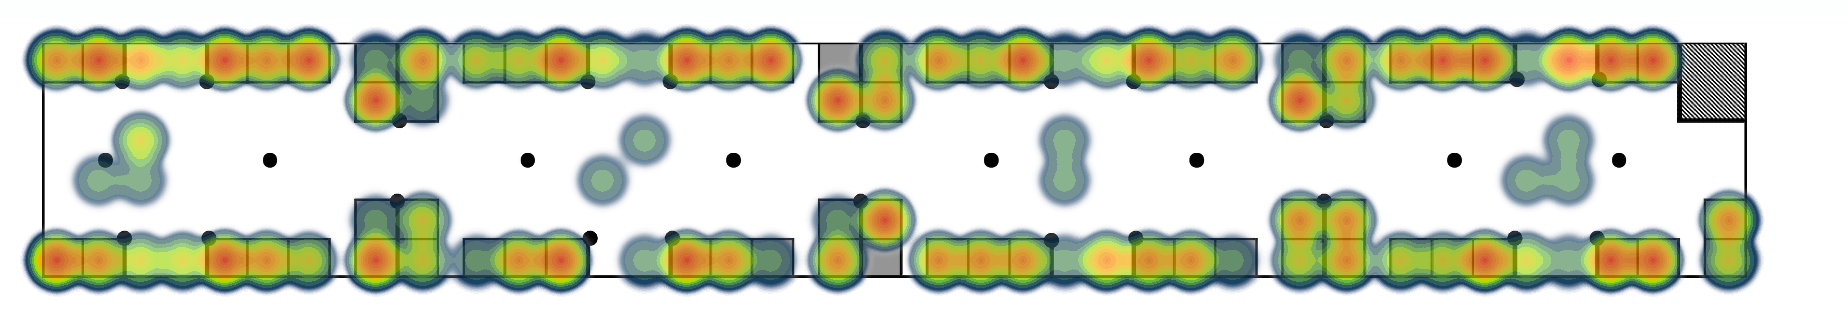
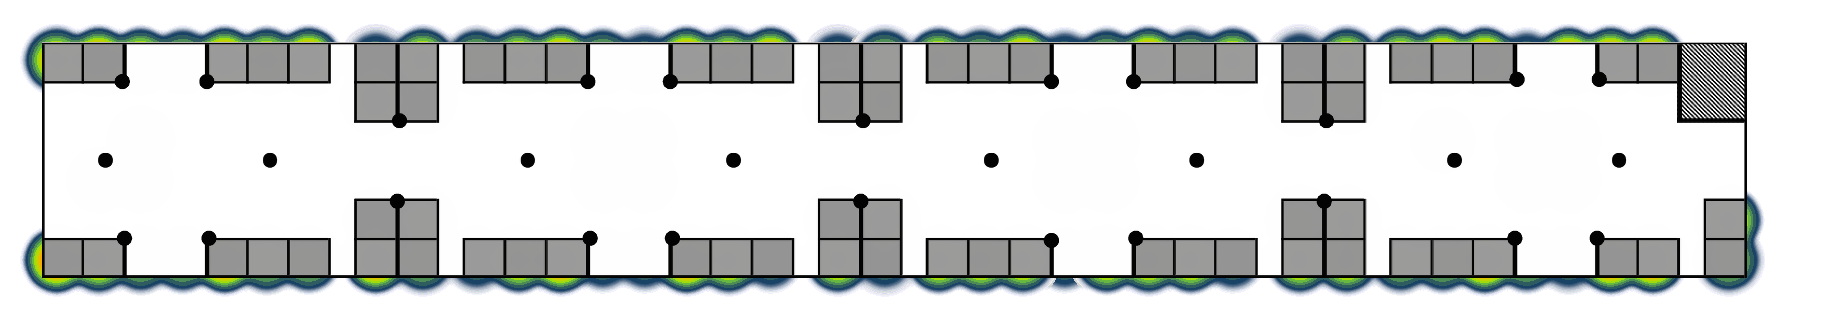
Add transverse edge seating metric

diff --git a/sim.rb b/sim.rb
@@ -174,7 +174,13 @@ def class_to_car(car_class)
 end
 
 # A fully comprehensive pure strategy
-# 6,8,14,1,5,4: [0.0151] *
+# 6,8,14,1,5,4,1: [0.0790]
+# 6,8,14,1,5,4,20: [0.0580]
+# 6,8,14,1,5,4,10: [0.0579]
+# 6,8,14,1,5,4,6: [0.0574]
+# 6,8,14,1,5,4,3: [0.0355]
+# 6,8,14,1,5,4,2: [0.0190] *
+# 6,8,14,1,5,4,1: [0.0673] *
 def choose_near_seat_alone(door, plan, passengers)
   max_dist = 14.0
   car_dist = manhattan_distance('01a', plan.last.last)
@@ -192,6 +198,7 @@ def choose_near_seat_alone(door, plan, passengers)
       w_no_pole = 1
       w_door = 5
       w_seat_pole = 4
+      w_trans_edge = 2
 
       person_dist = Math.log(occupied.map{|occ| manhattan_distance(space, occ)}.min) / Math.log(car_dist)
       sit_preference = space.seat? ? 1 : 0
@@ -202,13 +209,15 @@ def choose_near_seat_alone(door, plan, passengers)
       no_pole = 1 - is_space_type.call(:floor)
       stand_door = is_space_type.call(:floor_door)
       seat_pole = is_space_type.call(:seat_pole)
+      trans_edge = is_space_type.call(:seat_trans_edge)
 
       w_person * person_dist +
       w_seat * sit_preference +
       w_dist * walk_distance +
       w_no_pole * no_pole +
       w_door * stand_door +
-      w_seat_pole * seat_pole
+      w_seat_pole * seat_pole +
+      w_trans_edge * trans_edge
     end
 
   space_weights = Hash[*unoccupied.zip(weights).flatten]

diff --git a/car.rb b/car.rb
@@ -37,6 +37,11 @@ Space = Struct.new(:car_class, :space, :position, :pole, :wall, :door, :map, :le
   def seat?
     position > 0
   end
+
+  # Seat faces forwards or back (not sideways) and is against the wall
+  def trans_edge?
+    [1, 4].include?(perpendicular)
+  end
 end
 
 def space_type(space_name, car)
@@ -51,6 +56,7 @@ def space_type(space_name, car)
 
   if space.position > 0
     if space.door > 0 then :seat_door
+    elsif space.trans_edge? then :seat_trans_edge
     elsif space.seat_pole > 0 then :seat_pole
     elsif space.wall > 0 then :seat_wall
     else :seat_middle
